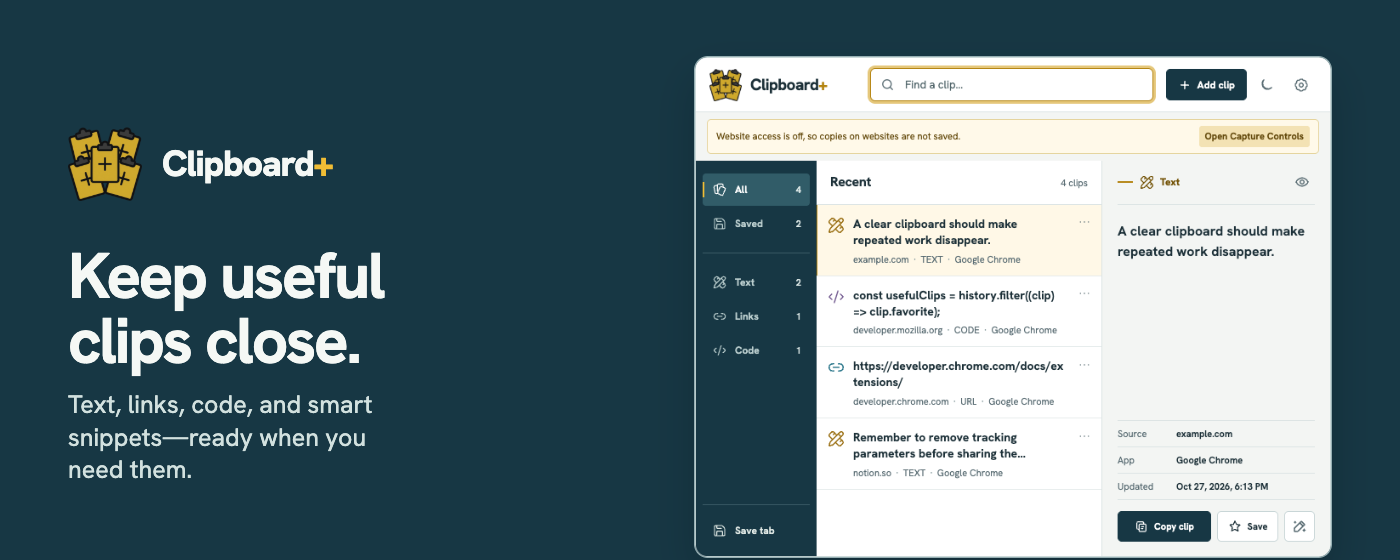
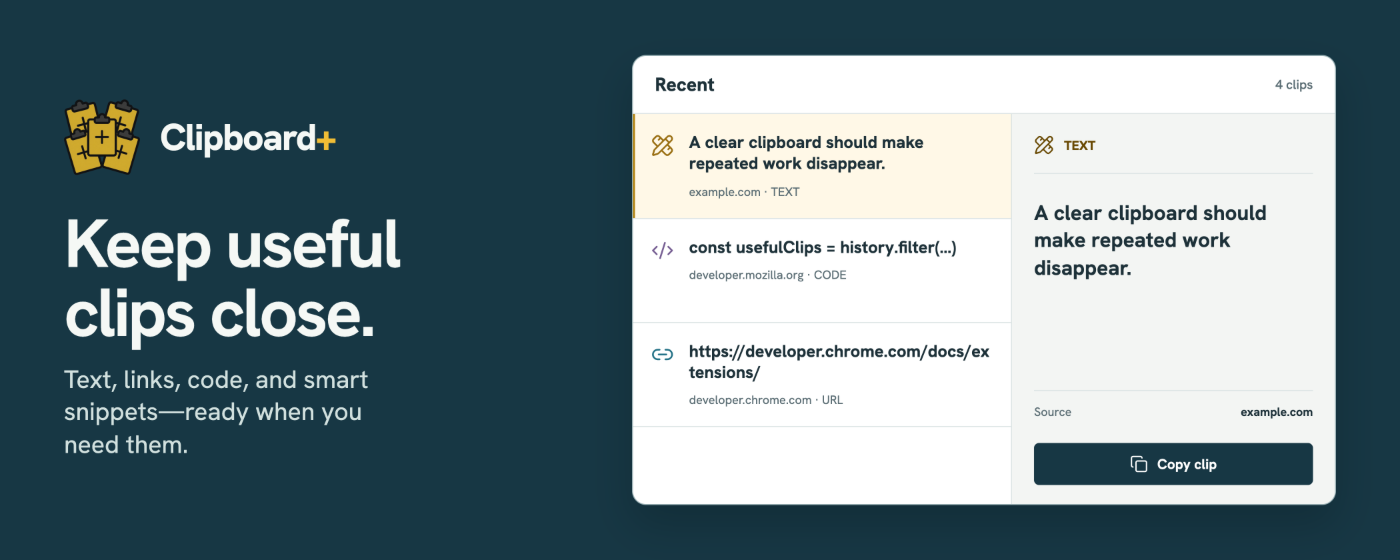
docs: sharpen Chrome Web Store promo artwork

diff --git a/README.md b/README.md
@@ -70,7 +70,7 @@ Upgrading from 1.5.0 or 1.5.1 resets the old build-specific Accessibility entry 
 - Without the companion, Chrome internal pages, the Chrome Web Store, browser UI, and desktop applications cannot be captured. The companion sees the resulting system clipboard instead and covers most of those gaps.
 - Incognito access is disabled in the manifest.
 
-The public [privacy policy](https://tonys-coding.github.io/ClipboardPlus/privacy.html), [support page](https://tonys-coding.github.io/ClipboardPlus/support.html), and [data-deletion instructions](https://tonys-coding.github.io/ClipboardPlus/data-deletion.html) are maintained from `docs/`. `npm run assets:store` refreshes the five store screenshots, two promo tiles, and Workspace and Capture Controls previews used by the homepage. `npm run test:site` checks the five public pages at desktop and mobile sizes.
+The public [privacy policy](https://tonys-coding.github.io/ClipboardPlus/privacy.html), [support page](https://tonys-coding.github.io/ClipboardPlus/support.html), and [data-deletion instructions](https://tonys-coding.github.io/ClipboardPlus/data-deletion.html) are maintained from `docs/`. `npm run assets:store` refreshes the five store screenshots, two promo tiles, and Workspace and Capture Controls previews used by the homepage. Promo tiles render at 3× density before downsampling to the Chrome Web Store's exact 440×280 and 1400×560 dimensions. `npm run test:site` checks the five public pages at desktop and mobile sizes.
 
 ## Using the extension
 
